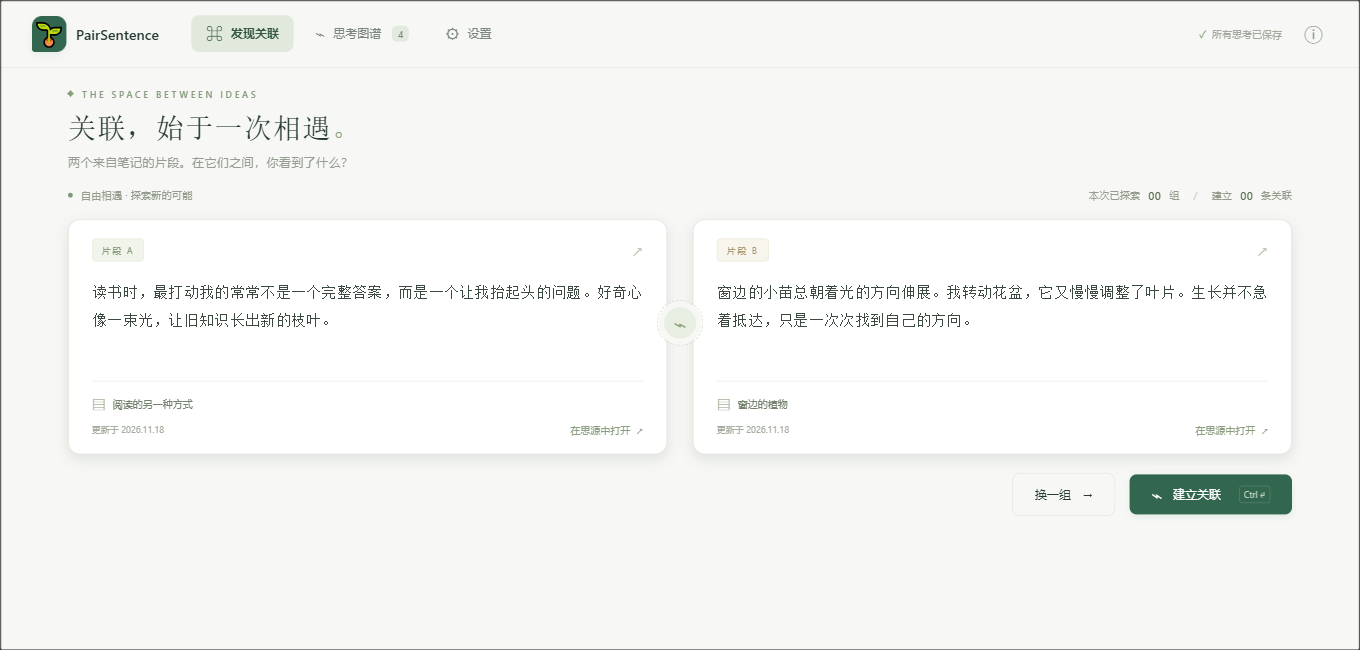
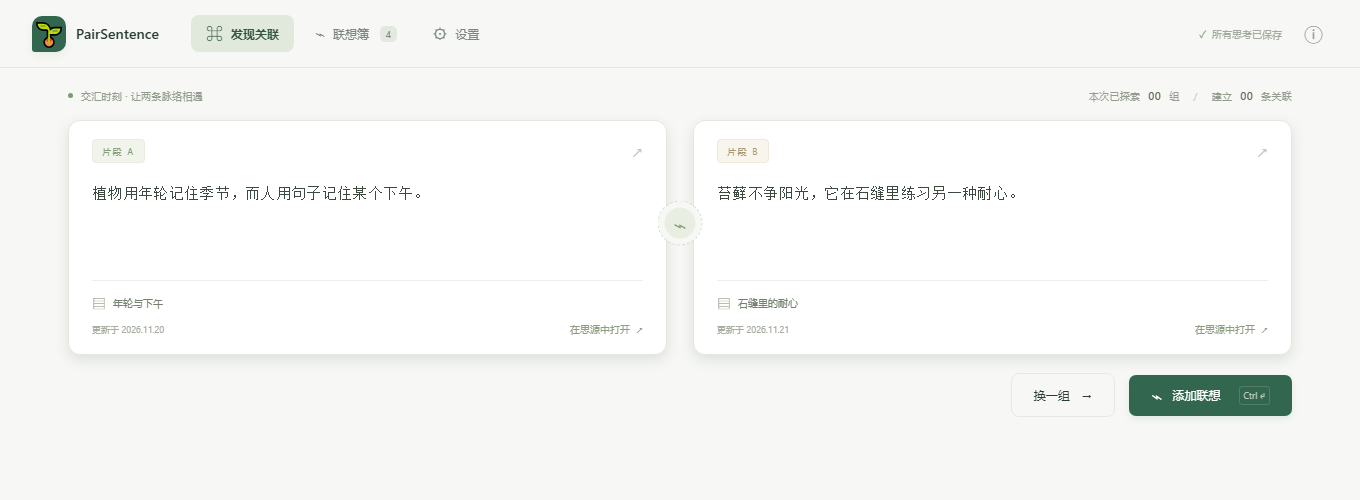
Refresh screenshots with fictional demo data

diff --git a/README.en.md b/README.en.md
@@ -10,7 +10,7 @@ Where is your data, and is it safe? Everything is stored as JSON under `data/sto
 
 ![Desktop discovery: two fictional notes about reading and plants](docs/images/discover.png)
 
-![Dark graph reading: connections and thoughts between fictional notes](docs/images/graph.png)
+![Dark association list: connections and thoughts between fictional notes](docs/images/graph.png)
 
 It also works on mobile.
 

diff --git a/README.md b/README.md
@@ -12,7 +12,7 @@
 
 
 
-![深色图谱阅读：虚构笔记之间的关联及思考记录](docs/images/graph.png)
+![深色联想列表：虚构笔记之间的关联及思考记录](docs/images/graph.png)
 
 在手机上也能用。
 
